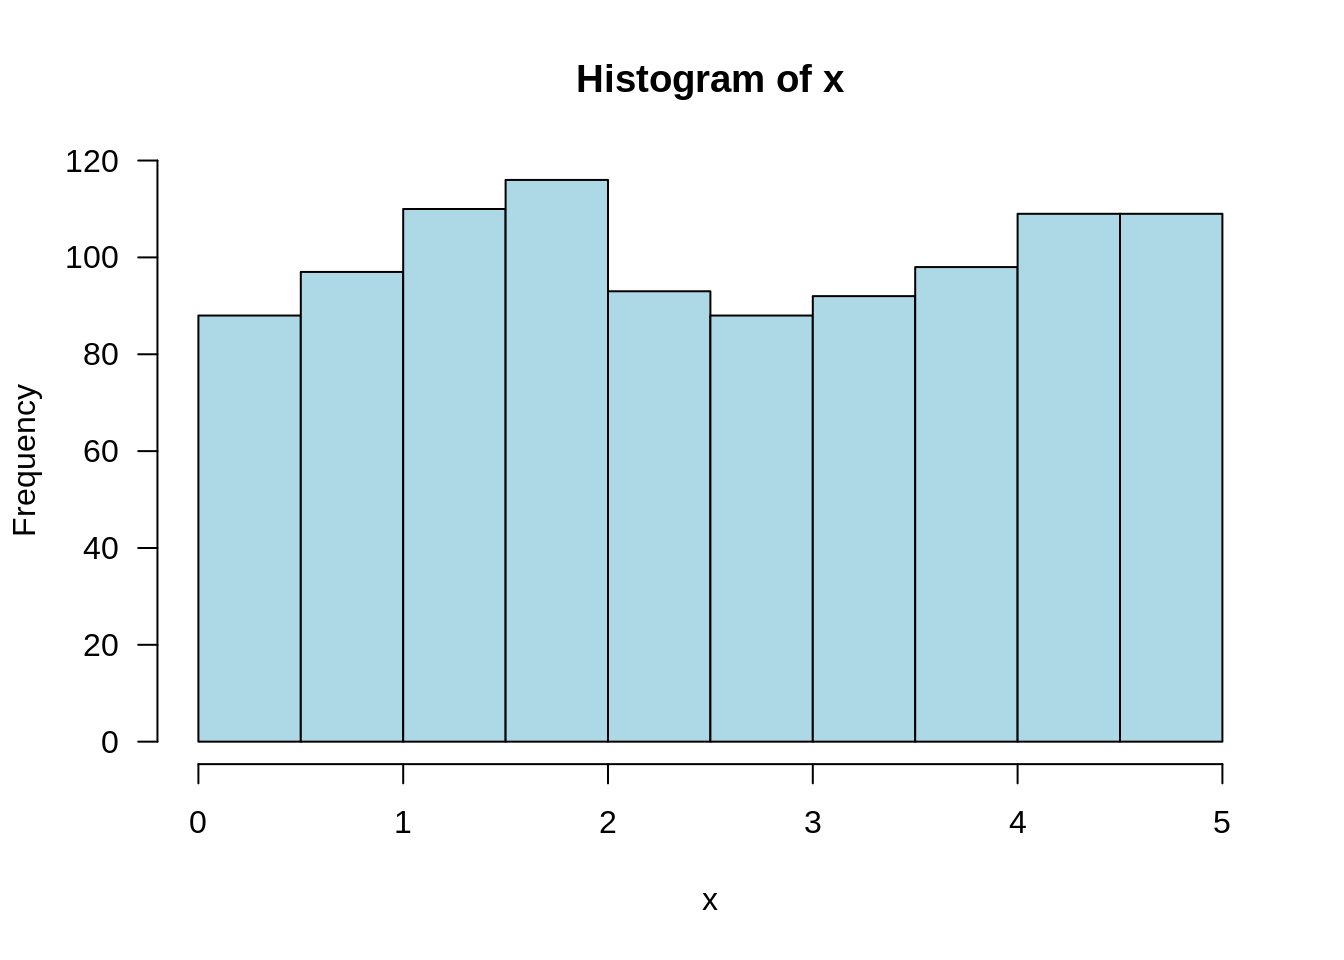
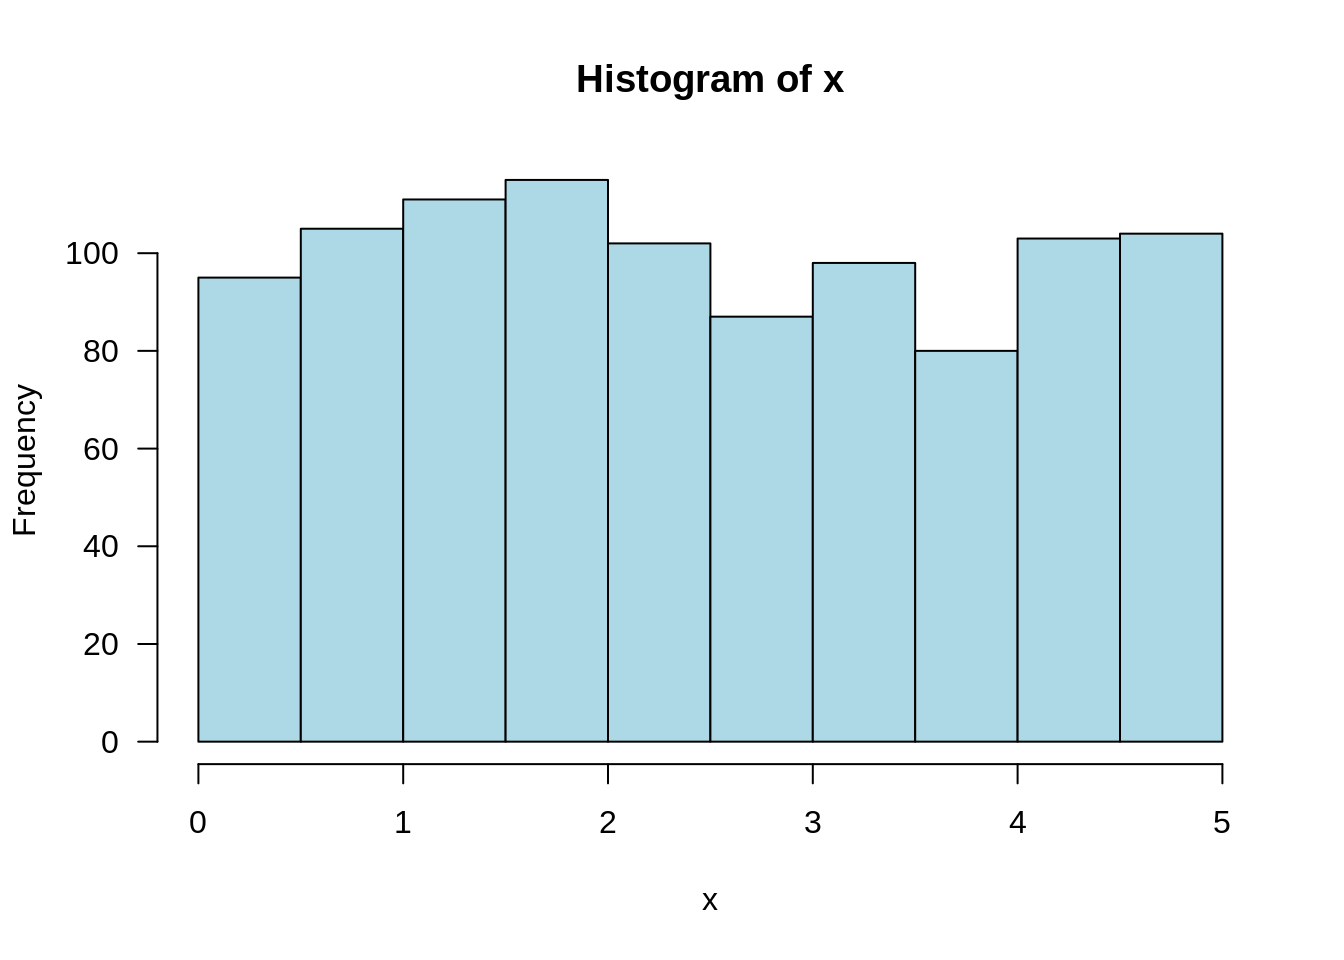
Deploying to gh-pages from @ jtr13/1201@f917521a315b24715ffd351b1036b5b59697fd11 🚀

diff --git a/ch.-4-continuous-random-variables-and-probability-distributions.html b/ch.-4-continuous-random-variables-and-probability-distributions.html
@@ -76,12 +76,12 @@
 <p><span class="math inline">\(f(x) = .2\)</span> for <span class="math inline">\(0 \leq x \leq 5\)</span>, 0 otherwise.</p>
 <div class="sourceCode" id="cb151"><pre class="downlit sourceCode r">
 <code class="sourceCode R"><span class="fu"><a href="https://rdrr.io/r/stats/Uniform.html">runif</a></span><span class="op">(</span>n <span class="op">=</span> <span class="fl">1</span>, min <span class="op">=</span> <span class="fl">0</span>, max <span class="op">=</span> <span class="fl">5</span><span class="op">)</span></code></pre></div>
-<pre><code>## [1] 2.627055</code></pre>
+<pre><code>## [1] 2.286024</code></pre>
 <p>Take the average of 1000 picks:</p>
 <div class="sourceCode" id="cb153"><pre class="downlit sourceCode r">
 <code class="sourceCode R"><span class="va">x</span> <span class="op">&lt;-</span> <span class="fu"><a href="https://rdrr.io/r/stats/Uniform.html">runif</a></span><span class="op">(</span>n <span class="op">=</span> <span class="fl">1000</span>, min <span class="op">=</span> <span class="fl">0</span>, max <span class="op">=</span> <span class="fl">5</span><span class="op">)</span>
 <span class="fu"><a href="https://rdrr.io/r/base/mean.html">mean</a></span><span class="op">(</span><span class="va">x</span><span class="op">)</span></code></pre></div>
-<pre><code>## [1] 2.544703</code></pre>
+<pre><code>## [1] 2.469152</code></pre>
 <p>Draw a histogram of the 1000 picks:</p>
 <div class="sourceCode" id="cb155"><pre class="downlit sourceCode r">
 <code class="sourceCode R"><span class="fu"><a href="https://rdrr.io/r/graphics/hist.html">hist</a></span><span class="op">(</span><span class="va">x</span>, las <span class="op">=</span> <span class="fl">1</span>, col <span class="op">=</span> <span class="st">"lightblue"</span><span class="op">)</span></code></pre></div>
